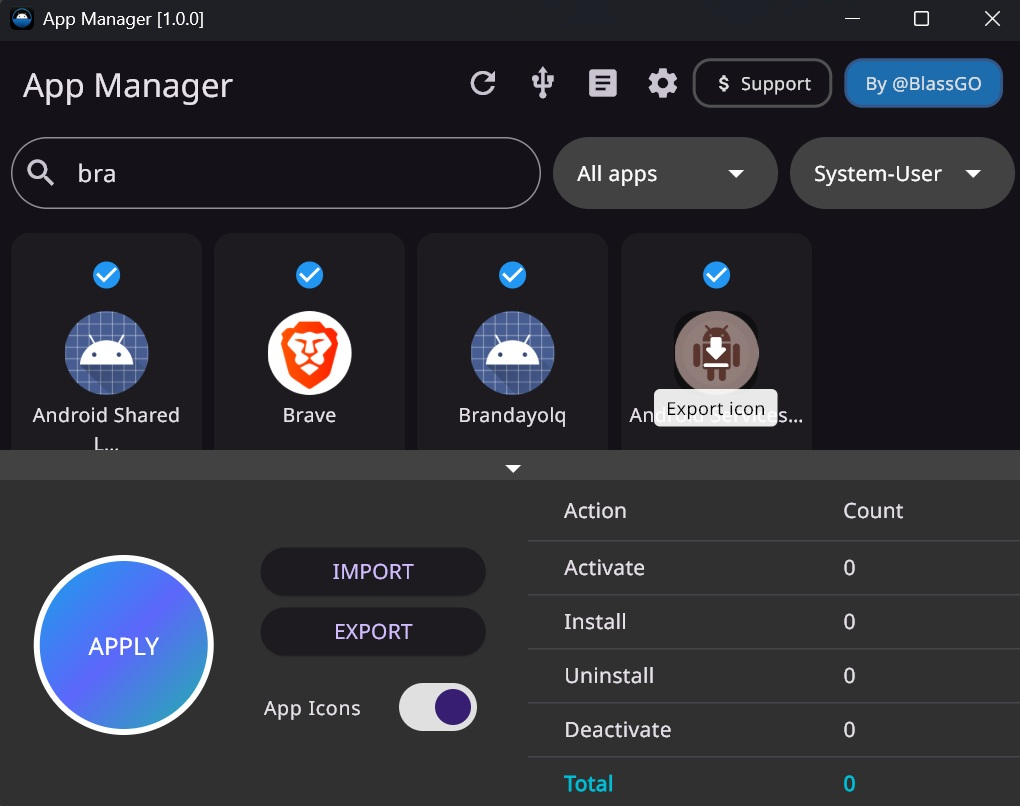
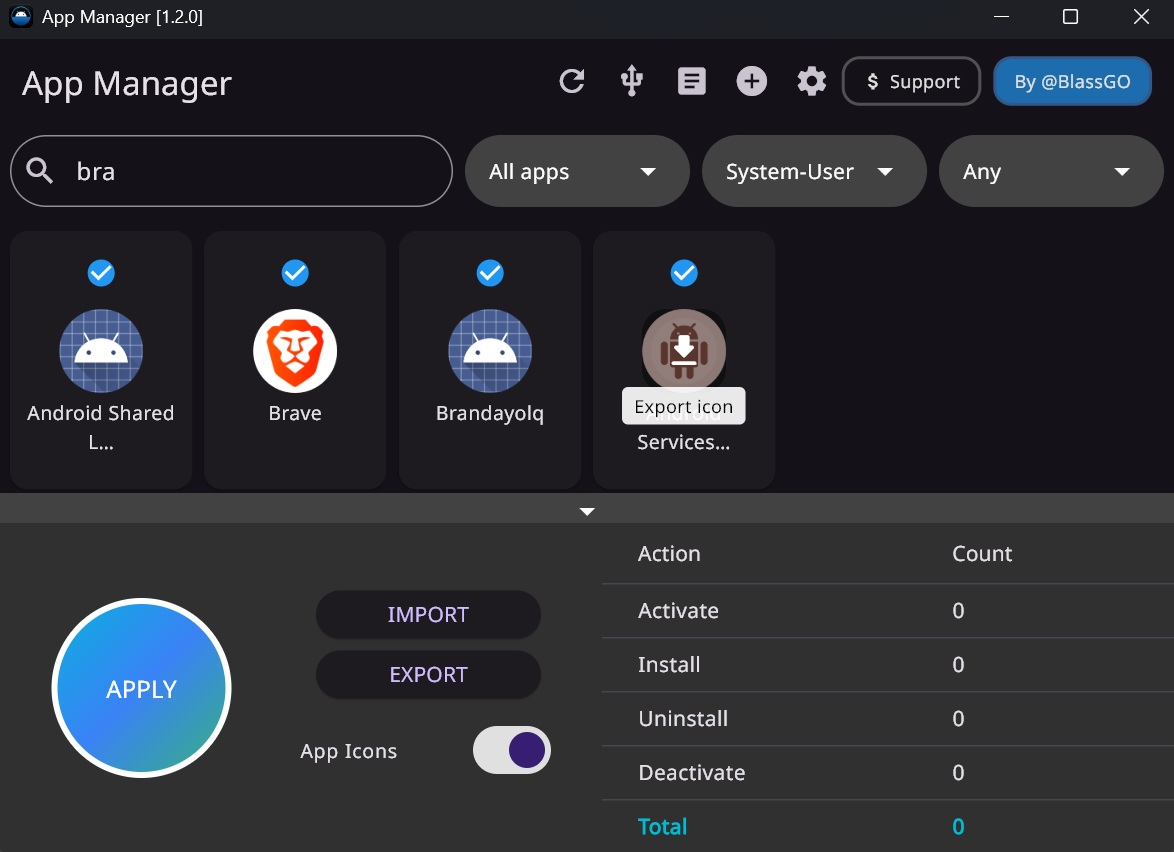
v1.2.0-info

diff --git a/README.md b/README.md
@@ -12,12 +12,13 @@
 |---------|-------------|
 | **App Listing** | Displays all apps for the current user with ``Label`` (according to the device's language), ``Package``, ``ID``, ``APK path``, and ``Type`` (system/user) |
 | **Icon View** | Shows apps with icons and labels, mimicking an app drawer. Allows icon extraction for specific apps |
-| **Search Filters** | Filter apps by name, package, membership or state (ENABLED/DISABLED/UNINSTALLED) |
+| **Search Filters** | Filter apps by name, package, membership, state (ENABLED/DISABLED/UNINSTALLED), or sort by "Checked," "Unchecked," or "Applicable" states. The "Applicable" filter shows apps that will receive changes before applying them |
 | **App Actions** | Perform **activate**, **deactivate**, **uninstall**, or **install** on multiple apps intuitively |
 | **Device Management** | Switch between multiple devices (USB or wireless, previously connected) |
 | **Log Viewer** | Integrated GUI log viewer for errors and exceptions |
 | **JSON Export** | Export actions as JSON for replication on other devices. Share your own debloat lists |
 | **App List Backup** | Export full app list for precise state replication / restoration. |
+| **Remote App Lists** | Use remote app lists from external repositories to debloat devices directly from the interface |
 
 ## Prerequisites
 - [**ADB**](https://developer.android.com/tools/releases/platform-tools) (Android Debug Bridge)
@@ -38,7 +39,7 @@
    - Connect via USB or pair wirelessly (Settings > TCP/IP).
 4. **Run**:
    - Double-click `app_manager.exe`.
-   - If you haven't installed ADB yet, the tool will suggest how to get it
+   - If ADB isn't detected in your system's PATH, select it using the file explorer.
 
 ### Linux
 1. **Download**:
@@ -56,7 +57,7 @@
    cd ~/AppManager
    ./app_manager
    ```
-   If you haven't installed ADB yet, the tool will suggest how to get it
+   - If ADB isn't detected in your system's PATH, select it using the file explorer.
 
 ## Configuration
 
@@ -66,6 +67,7 @@
 | **Export All Apps** | Settings > Options | Include all apps in JSON export, deducing actions to replicate state. |
 | **Refresh all icons** | Settings > Options | Icons are cached per device. This option forces a full refresh, ensuring all app icons are always the latest, but it impacts performance. |
 | **TCP/IP** | Settings > TCP/IP | Configure wireless device connections (IP/port). |
+| **Select ADB** | Settings > Actions | Change the path from which the ADB executable is sourced. |
 
 ## Usage Tips
 - **Multi-Select**: Checking or unchecking apps is all you need. Based on the current state of the app, all active apps will be checked, and all inactive or uninstalled apps will be unchecked. This way, you can reactivate or reinstall an app simply by checking it, or uninstall/deactivate an app by unchecking it:
@@ -74,11 +76,17 @@
 - **Show info**: Get more app info quickly:
   <p align="center"><img src="pages/images/show-info.jpg" style="width:600px;height:auto;"></p>
   
-- **Logs**: Check the log viewer for troubleshooting.
+- **Logs**: Check the log viewer for troubleshooting:
   <p align="center"><img src="pages/images/log-viewer.jpg" style="width:600px;height:auto;"></p>
 
-- **Devices**: Switch devices in the device manager for multi-device control.
+- **Devices**: Switch devices in the device manager for multi-device control:
   <p align="center"><img src="pages/images/device-selector.jpg" style="width:600px;height:auto;"></p>
+
+- **Remote Lists**: Use the remote list manager to access and apply debloat lists from external repositories, sorted by popularity and including author details:
+  <p align="center"><img src="pages/images/remote.jpg" style="width:600px;height:auto;"></p>
+
+## Contributing
+You can contribute to the project by submitting pull requests to the [AppManager-Repo repositories](https://github.com/orgs/AppManager-Repo/repositories), where resources for the remote list manager are sourced. Share your debloat lists for different devices or Android versions to help the community.
 
 ## Credits
 - [BlassGO](https://github.com/BlassGO): Creator of App Manager for DalvikVM and Android App Manager GUI.
